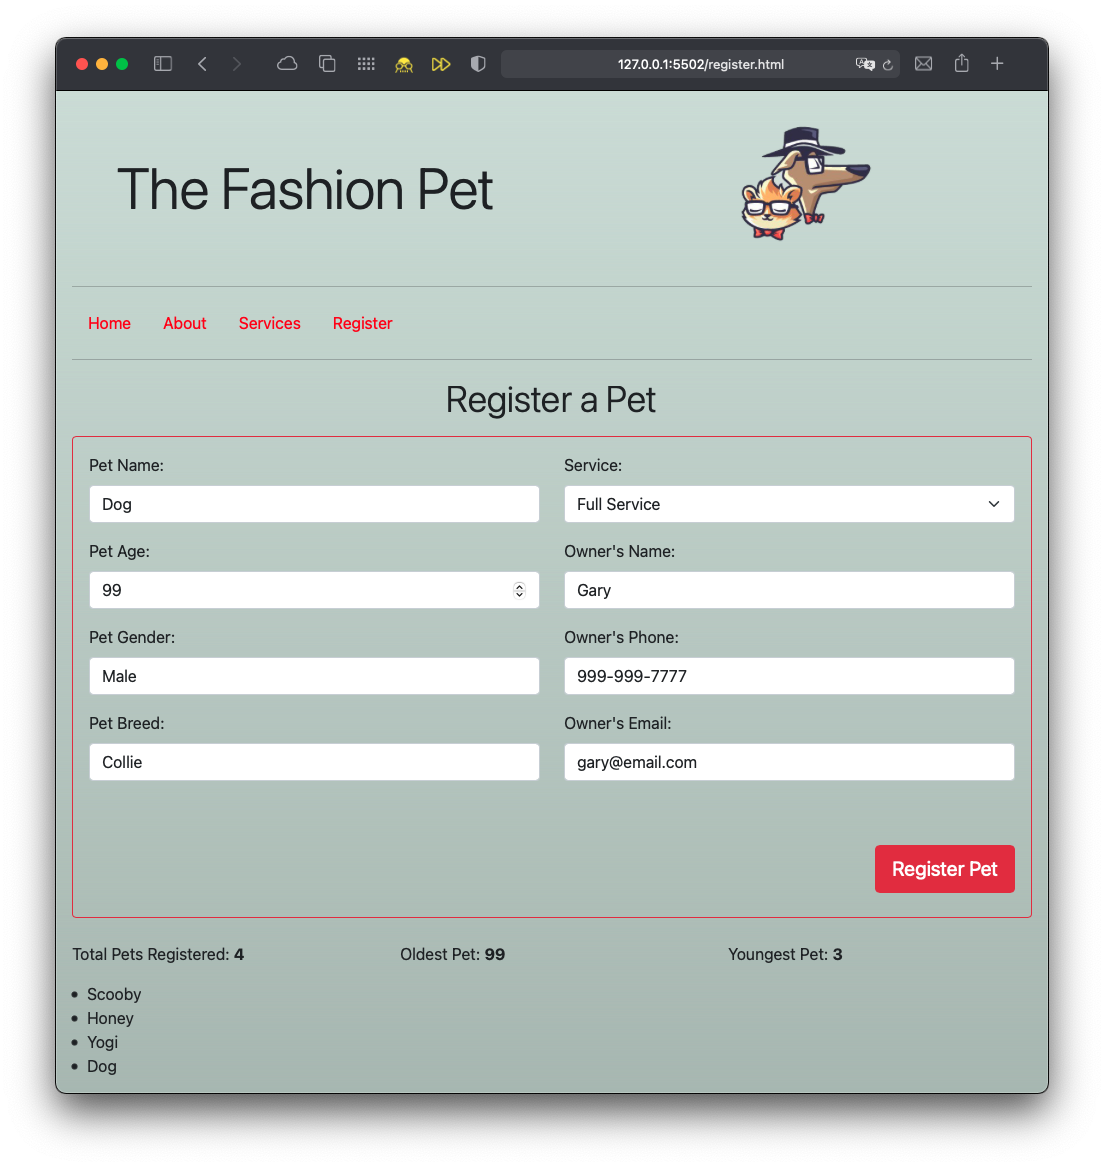
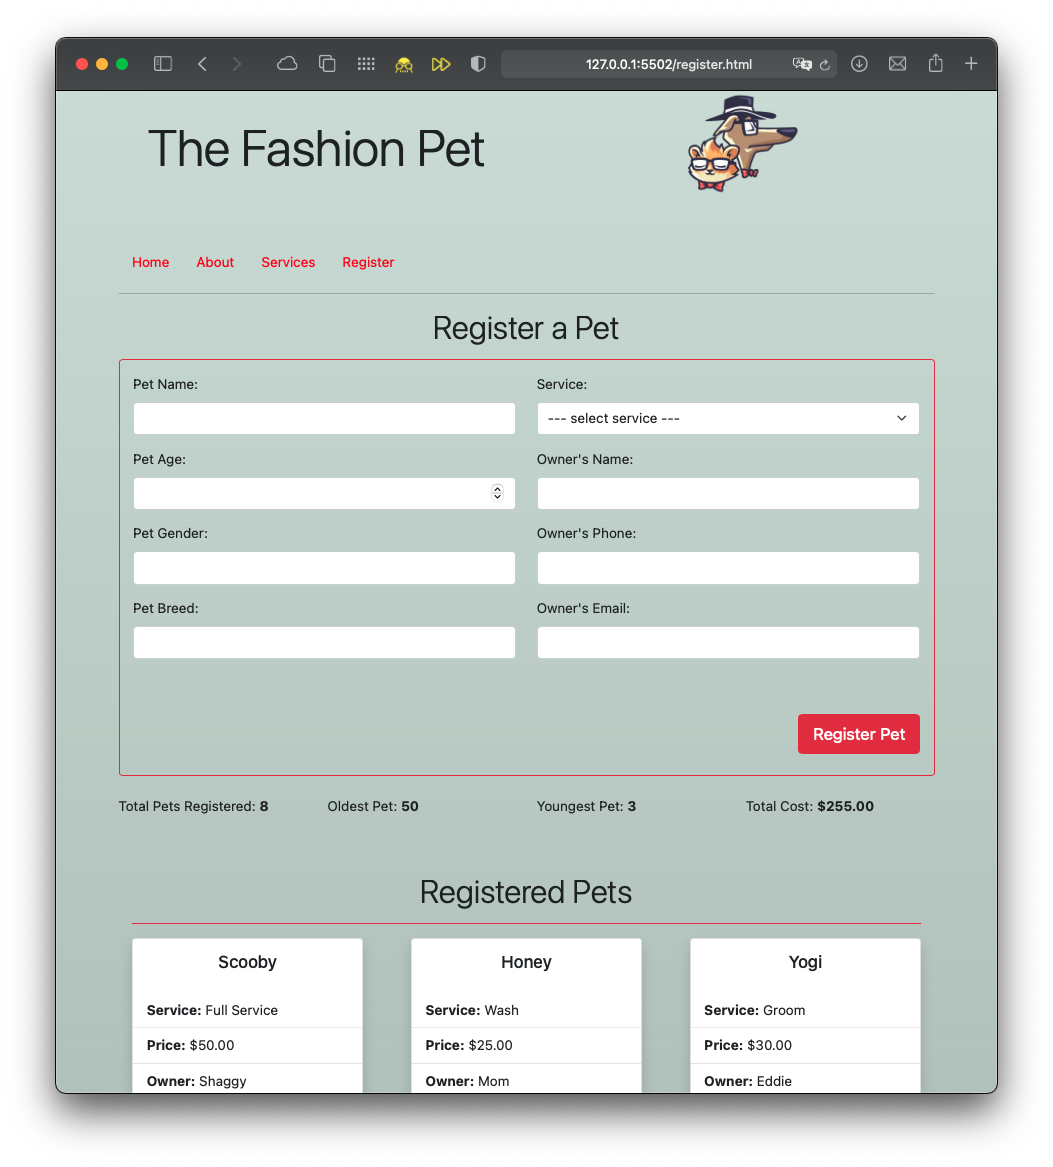
Added cards & profit

diff --git a/pet-salon/register.js b/pet-salon/register.js
@@ -11,16 +11,21 @@ var salon = {
         open: "9:00 AM",
         close: "5:00 PM"
     },
-    pets: []
-};
+    pets: [],
+    prices: {
+        wash: 25,
+        groom: 30,
+        fullService: 50
+    }
+}
 
 // D E S T R U C T U R E
-var {name, address: {street, city, state, zip}, hours: {open, close}, pets} = salon;
+var {name, address: {street, city, state, zip}, hours: {open, close}, pets, prices: {wash, groom, fullService}} = salon;
 
 
 // P E T   C L A S S 
 class Pet {
-    constructor(name, age, gender, breed, service, owner, phone, email) {
+    constructor(name, age, gender, breed, service, owner, phone, email, price) {
         this.name = name;
         this.age = age;
         this.gender = gender;
@@ -29,21 +34,37 @@ class Pet {
         this.owner = owner;
         this.phone = phone;
         this.email = email;
+        this.price = price;
     }
 }
 
 
 // P E T S
-var scooby = new Pet("Scooby", 50, "Male", "Dane", "Full Service", "Shaggy", "555-555-1212");
+var scooby = new Pet("Scooby", 50, "Male", "Dane", "Full Service", "Shaggy", "555-555-1212", "email@email.com", 50);
 pets.push(scooby);
 
-var honey = new Pet("Honey", 3, "Female", "Boxer", "Wash", "Mom", "777-333-5432");
+var honey = new Pet("Honey", 3, "Female", "Boxer", "Wash", "Mom", "777-333-5432", "email@email.com", 25);
 pets.push(honey);
 
-var yogi = new Pet("Yogi", 10, "Male", "Mutt", "Groom", "Eddie", "999-867-5309");
+var yogi = new Pet("Yogi", 10, "Male", "Mutt", "Groom", "Eddie", "999-867-5309", "email@email.com", 30);
 pets.push(yogi);
 
+var yogi = new Pet("Yogi", 10, "Male", "Mutt", "Groom", "Eddie", "999-867-5309", "email@email.com", 30);
+pets.push(yogi);
 
+var yogi = new Pet("Yogi", 10, "Male", "Mutt", "Groom", "Eddie", "999-867-5309", "email@email.com", 30);
+pets.push(yogi);
+
+var yogi = new Pet("Yogi", 10, "Male", "Mutt", "Groom", "Eddie", "999-867-5309", "email@email.com", 30);
+pets.push(yogi);
+
+var yogi = new Pet("Yogi", 10, "Male", "Mutt", "Groom", "Eddie", "999-867-5309", "email@email.com", 30);
+pets.push(yogi);
+
+var yogi = new Pet("Yogi", 10, "Male", "Mutt", "Groom", "Eddie", "999-867-5309", "email@email.com", 30);
+pets.push(yogi);
+
+// - - - - - - - - - - - - - - - - - - - - - - - - - - - - - - - - - - - - - - - - - - - - 
 // R E G I S T E R   A   P E T
 function register() {
     var inputName = document.getElementById("petName").value;
@@ -55,7 +76,16 @@ function register() {
     var inputPhone = document.getElementById("petPhone").value;
     var inputEmail = document.getElementById("petEmail").value;
 
-    var newPet = new Pet(inputName, inputAge, inputGender, inputBreed, inputService, inputOwner, inputPhone, inputEmail);
+    var price;
+    if (inputService === "Wash") {
+        price = 25;
+    } else if (inputService === "Groom") {
+        price = 30;
+    } else if (inputService === "Full") {
+        price = 50;
+    }
+
+    var newPet = new Pet(inputName, inputAge, inputGender, inputBreed, inputService, inputOwner, inputPhone, inputEmail, price);
 
     pets.push(newPet);
     console.log(newPet);
@@ -65,7 +95,8 @@ function register() {
     oldestPet();
     youngestPet();
     petNames();
-};
+    totalPrice();
+}
 
 
 // #   O F   P E T S   R E G I S T E R E D
@@ -79,38 +110,71 @@ function totalNumPets() {
 totalNumPets();
 
 
+// O L D E S T
+function oldestPet() {
+    var oldestPet = Math.max(...pets.map(age => age.age));
+    document.getElementById("oldest-pet").innerHTML=`
+    <p>
+    Oldest Pet: <b>${oldestPet}</b>
+    </p>`;
+}
+oldestPet();
+
+
+// Y O U N G E S T
+function youngestPet() {
+    var youngestPet = Math.min(...pets.map(age => age.age));
+    document.getElementById("youngest-pet").innerHTML=`
+    <p>
+    Youngest Pet: <b>${youngestPet}</b>
+    </p>`;
+}
+youngestPet();
+
+
+// T O T A L   P R I C E
+function totalPrice() {
+    var totalPrice = 0;
+    for (var i = 0; i < pets.length; i ++) {
+        totalPrice += pets[i].price;
+    }
+
+    document.getElementById("total-price").innerHTML=`
+    <p>
+    Total Cost: <b>$${totalPrice}.00
+    </p>`;
+}
+totalPrice();
+
+
 // P E T   N A M E S
 function petNames() {
     var reset = document.getElementById("pets");
     reset.innerHTML="";
 
     for (var i = 0; i < pets.length; i ++) {
-        var petName = document.createElement("li");
-        petName.innerText = pets[i].name;
-        document.getElementById("pets").appendChild(petName);
+        var card = `
+            <div class="card shadow m-3" style="width: 17rem;">
+                <div class-"card-body">
+                    <h5 class="card-title text-center py-3">
+                        ${pets[i].name}
+                    </h5>
+                    <ul class="list-group list-group-flush">
+                        <li class="list-group-item"><b>Service:</b> ${pets[i].service}</li>
+                        <li class="list-group-item"><b>Price:</b> $${pets[i].price}.00</li>
+                        <li class="list-group-item"><b>Owner:</b> ${pets[i].owner}</li>
+                        <li class="list-group-item"><b>Price:</b> ${pets[i].phone}</li>
+                    </ul>
+                    </div>
+            </div>
+        `
+
+        var newCard = document.createElement("div");
+        newCard.innerHTML = card;
+        document.getElementById("pets").appendChild(newCard);
     };
 }
 petNames();
-
-
-// O L D E S T   &   Y O U N G E S T
-function oldestPet() {
-    var oldestPet = Math.max(...pets.map(age => age.age));
-    document.getElementById("oldest-pet").innerHTML=`
-    <p>
-        Oldest Pet: <b>${oldestPet}</b>
-    </p>`;
-};
-oldestPet();
-
-function youngestPet() {
-    var youngestPet = Math.min(...pets.map(age => age.age));
-    document.getElementById("youngest-pet").innerHTML=`
-    <p>
-        Youngest Pet: <b>${youngestPet}</b>
-    </p>`;
-};
-youngestPet();
 
 
 // F O O T E R   I N F O

diff --git a/pet-salon/register.html b/pet-salon/register.html
@@ -19,6 +19,7 @@
             </div>
         </div>
         <hr>
+<!-- N A V -->
             <ul class="nav">
                 <li class="nav-item">
                     <a class="nav-link" aria-current="page" href="./index.html">Home</a>
@@ -40,7 +41,7 @@
 
             <div class="form-container border rounded border-danger p-3">
                 <form class="" action="#">
-
+<!-- R E G   F O R M -->
                     <div class="row">
                         <div class="col-6">
                             <div class="mb-3">
@@ -97,17 +98,20 @@
                     <button type="submit" class="d-flex btn btn-lg btn-danger mt-5 mb-2 ms-auto" onclick="register()">Register Pet</button>
                 </div>
             </div>
+<!-- E N D   F O R M -->
+            <div class="row mt-4">
+                <div id="number-pets" class="col-3"></div>
 
-            <div class="row">
-                <div id="number-pets" class="col-4 mt-4"></div>
+                <div id="oldest-pet" class="col-3"></div>
 
-                <div id="oldest-pet" class="col-4 mt-4"></div>
+                <div id="youngest-pet" class="col-3"></div>
 
-                <div id="youngest-pet" class="col-4 mt-4"></div>
+                <div id="total-price" class="col-3"></div>
             </div>
 
-            <div id="pets" class="mb-5"></div>
-            <div id="pets-before"></div>
+            <h2 class="mb-3 mt-5 display-6 text-center">Registered Pets</h2>
+            <div class="border-bottom border-danger mx-3"></div>
+            <div id="pets" class="d-flex flex-wrap justify-content-between mb-5"></div>
 
             <hr>
         </main>

diff --git a/pet-salon/script2.js b/pet-salon/script2.js
@@ -44,3 +44,7 @@ function createPet() {
     newPet = new PetC(inputName, inputGender);
     console.log(newPet);
 };
+
+// document.getElementById().style.display="none";
+document.querySelector("#petName");
+document.querySelector(".petName");
